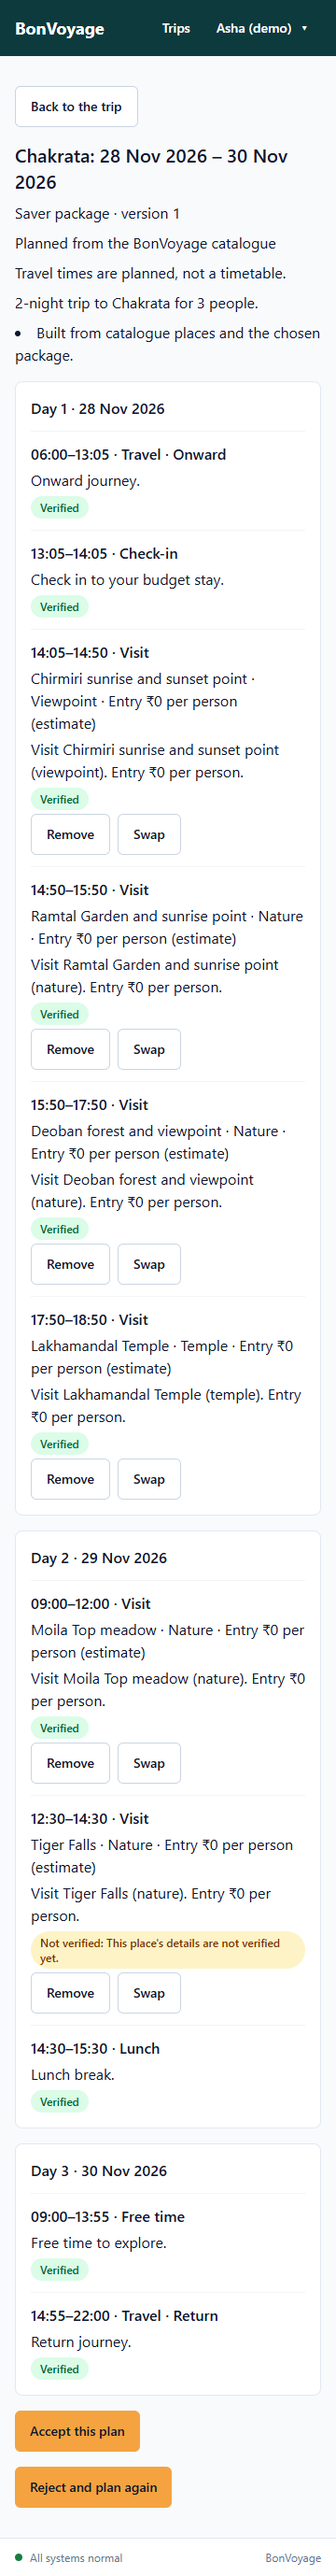
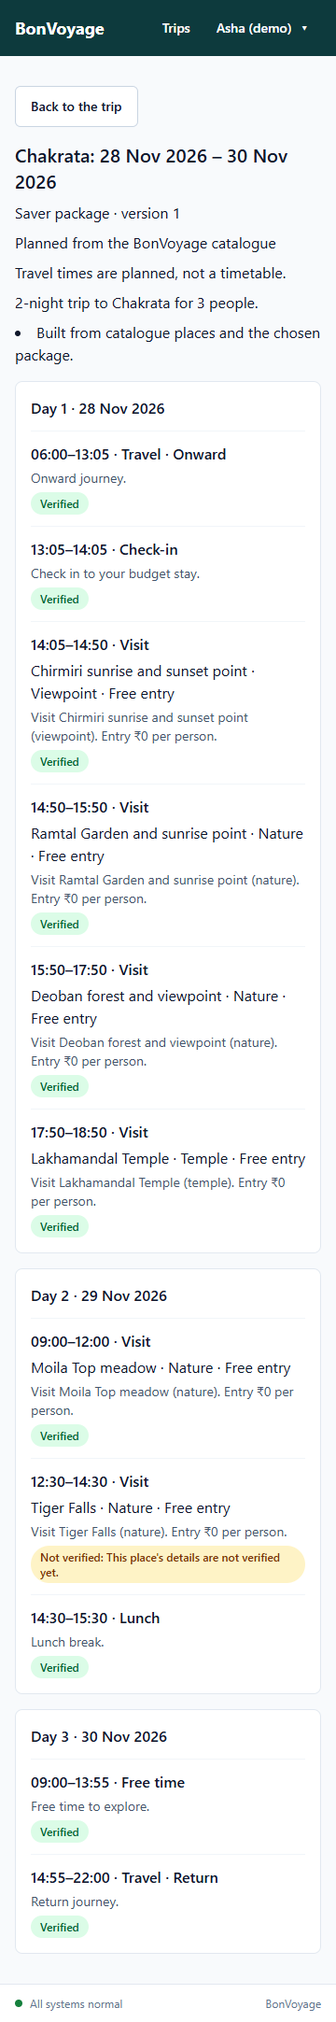
fix: status wording and free-entry visit lines

diff --git a/apps/web/src/pages/Trips/itinerary/ItineraryPage.tsx b/apps/web/src/pages/Trips/itinerary/ItineraryPage.tsx
@@ -57,6 +57,7 @@ export function ItineraryPage() {
       label: 'Reject and plan again',
       text: 'Reject this plan? You can plan the days again.',
       mutation: reject,
+      secondary: true,
     },
   ];
   return (
@@ -106,11 +107,13 @@ export function ItineraryPage() {
                 </p>
                 {item.place ? (
                   <p>
-                    {item.place.name} · {POI_CATEGORY_LABELS[item.place.category]} · Entry{' '}
-                    {formatInr(item.place.entryFeeInr)} per person (estimate)
+                    {item.place.name} · {POI_CATEGORY_LABELS[item.place.category]} ·{' '}
+                    {item.place.entryFeeInr > 0
+                      ? `Entry ${formatInr(item.place.entryFeeInr)} per person (estimate)`
+                      : 'Free entry'}
                   </p>
                 ) : null}
-                <p>{item.note}</p>
+                <p className="text-sm text-slate-600">{item.note}</p>
                 <Badge tone={item.verified ? 'success' : 'warning'}>
                   {item.verified
                     ? 'Verified'
@@ -124,7 +127,7 @@ export function ItineraryPage() {
           </ol>
         </section>
       ))}
-      {decisions.map(({ name, action, label, text, mutation }) =>
+      {decisions.map(({ name, action, label, text, mutation, secondary }) =>
         action ? (
           <div key={name} className="space-y-2">
             {confirm === name ? (
@@ -143,7 +146,11 @@ export function ItineraryPage() {
                 </Button>
               </div>
             ) : (
-              <Button disabled={!action.enabled} onClick={() => setConfirm(name)}>
+              <Button
+                variant={secondary ? 'secondary' : 'primary'}
+                disabled={!action.enabled}
+                onClick={() => setConfirm(name)}
+              >
                 {label}
               </Button>
             )}

diff --git a/apps/web/src/pages/Trips/itinerary/ItineraryPage.test.tsx b/apps/web/src/pages/Trips/itinerary/ItineraryPage.test.tsx
@@ -115,6 +115,33 @@ it('renders API dates, kinds, fees, planned legs, notes and verification badges'
   expect(screen.getByText('Verified')).toBeInTheDocument();
   expect(screen.getByText('Not verified: Details not verified yet.')).toBeInTheDocument();
 });
+
+it('shows "Free entry" for a zero-fee place and keeps its note visible', async () => {
+  const free: ItineraryView = {
+    ...view,
+    days: [
+      {
+        ...view.days[0]!,
+        items: [
+          {
+            ...view.days[0]!.items[1]!,
+            id: 'poi-free',
+            place: {
+              key: 'chakrata/park',
+              name: 'Deoban Park',
+              category: 'nature',
+              entryFeeInr: 0,
+            },
+            note: 'Visit Deoban Park (nature).',
+          },
+        ],
+      },
+    ],
+  };
+  setup(proposed(), free);
+  expect(await screen.findByText('Deoban Park · Nature · Free entry')).toBeInTheDocument();
+  expect(screen.getByText('Visit Deoban Park (nature).')).toBeInTheDocument();
+});
 it.each(['member', 'excluded'] as const)(
   '%s can read but sees no decision or adjustment buttons',
   async (role) => {

diff --git a/packages/shared/src/api/trips.ts b/packages/shared/src/api/trips.ts
@@ -199,9 +199,7 @@ export const TRIP_STATUS_LABELS: Record<TripStatusType, { label: string; explana
   },
   packages_proposed: {
     label: 'Packages proposed',
-    // T9 reaches this state before Sprint 3 builds packages (R8); restore the
-    // "costed packages are ready" wording when they ship.
-    explanation: 'The destination is chosen; packages come next.',
+    explanation: 'Costed packages are ready for the group to compare.',
   },
   package_selected: {
     label: 'Package selected',
@@ -213,7 +211,7 @@ export const TRIP_STATUS_LABELS: Record<TripStatusType, { label: string; explana
   },
   finalised: {
     label: 'Finalised',
-    explanation: 'The itinerary is accepted and the trip is booked in.',
+    explanation: 'The day plan is accepted; the trip is ready to go.',
   },
   in_progress: {
     label: 'In progress',

diff --git a/apps/web/src/pages/Trips/RecommendationDashboard.test.tsx b/apps/web/src/pages/Trips/RecommendationDashboard.test.tsx
@@ -290,6 +290,8 @@ describe('dashboard: recommendations', () => {
     ).toBeInTheDocument();
     expect(screen.getByRole('link', { name: 'See the packages' })).toBeInTheDocument();
     expect(screen.getByText('Rishikesh, Uttarakhand')).toBeInTheDocument();
-    expect(screen.getByText('The destination is chosen; packages come next.')).toBeInTheDocument();
+    expect(
+      screen.getByText('Costed packages are ready for the group to compare.'),
+    ).toBeInTheDocument();
   });
 });
